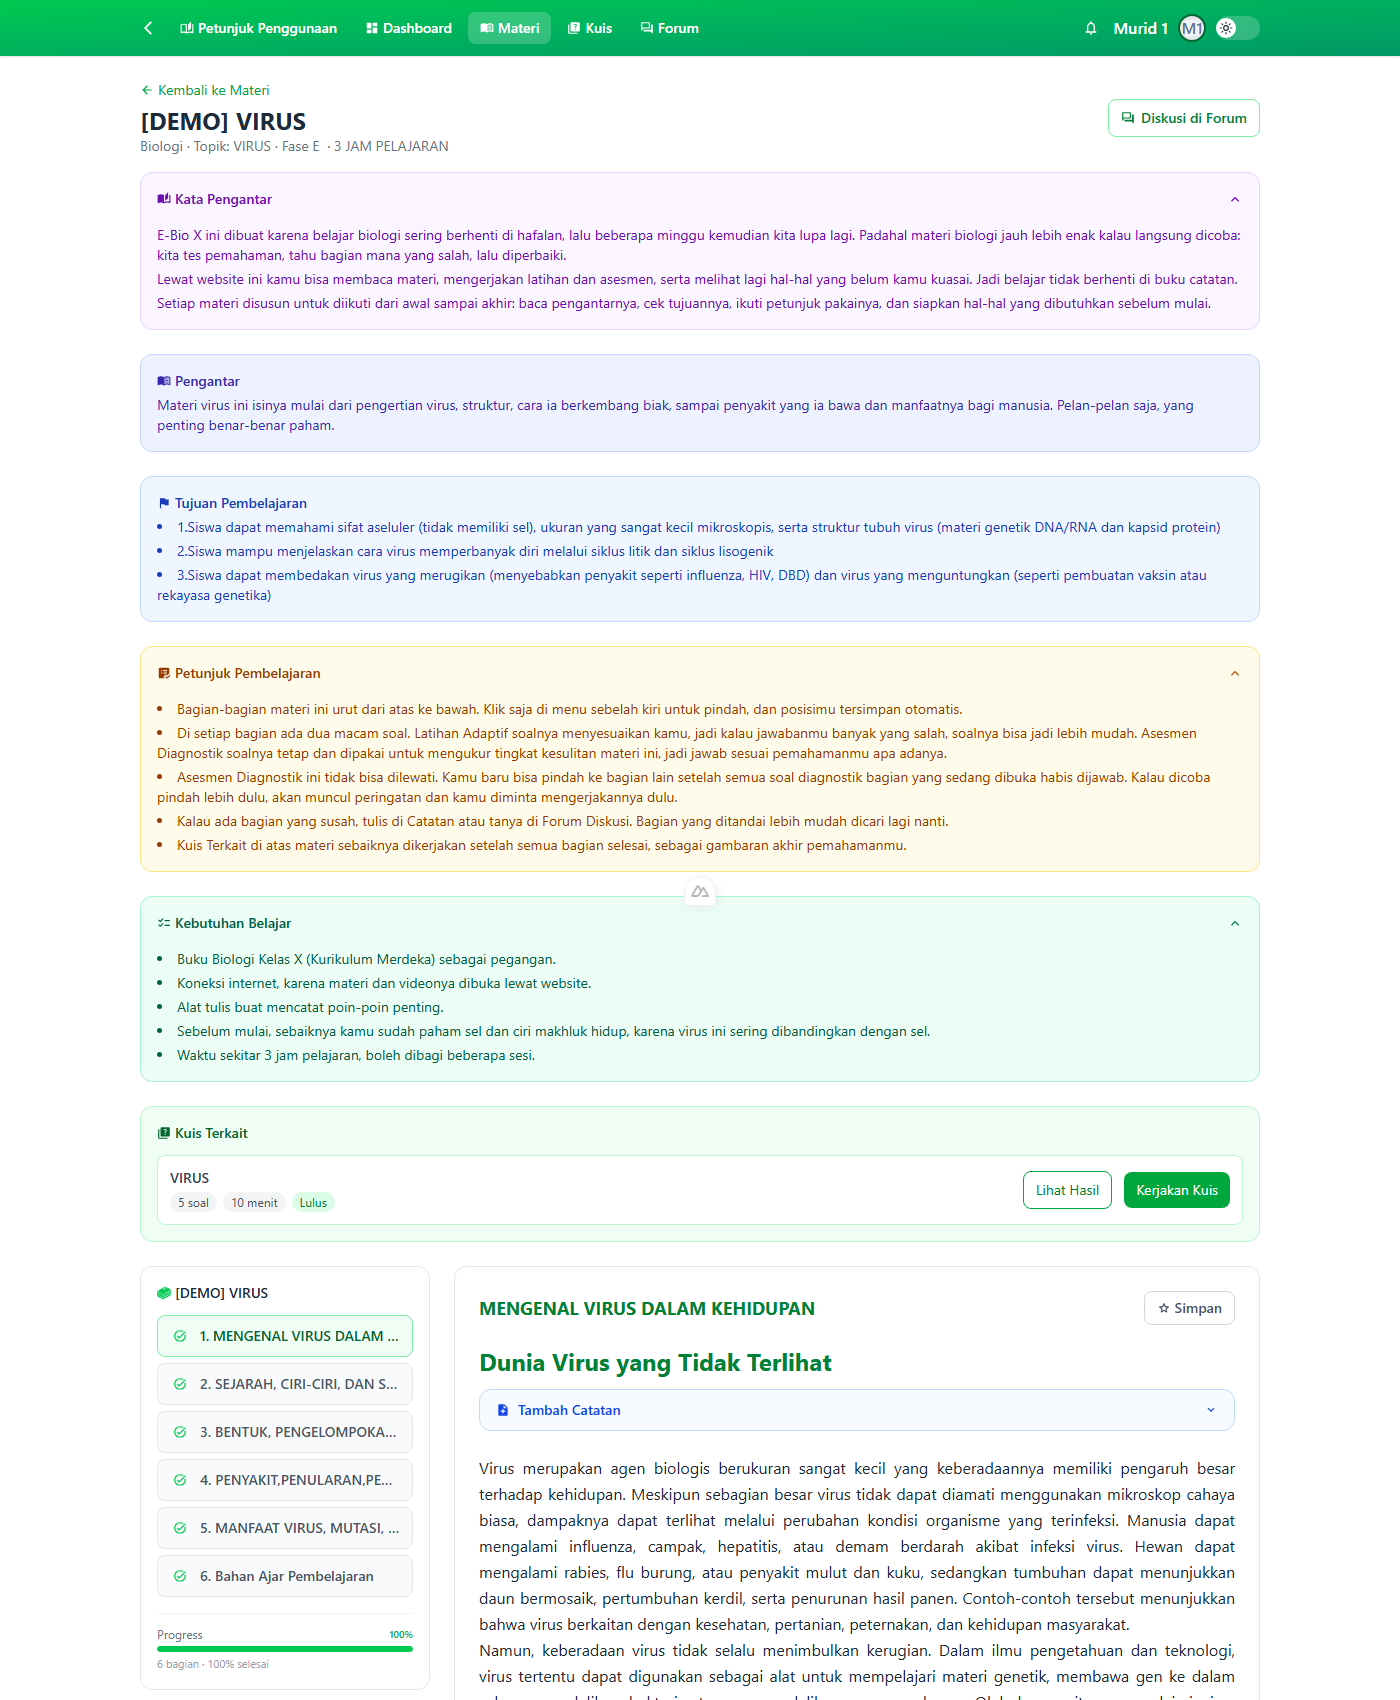
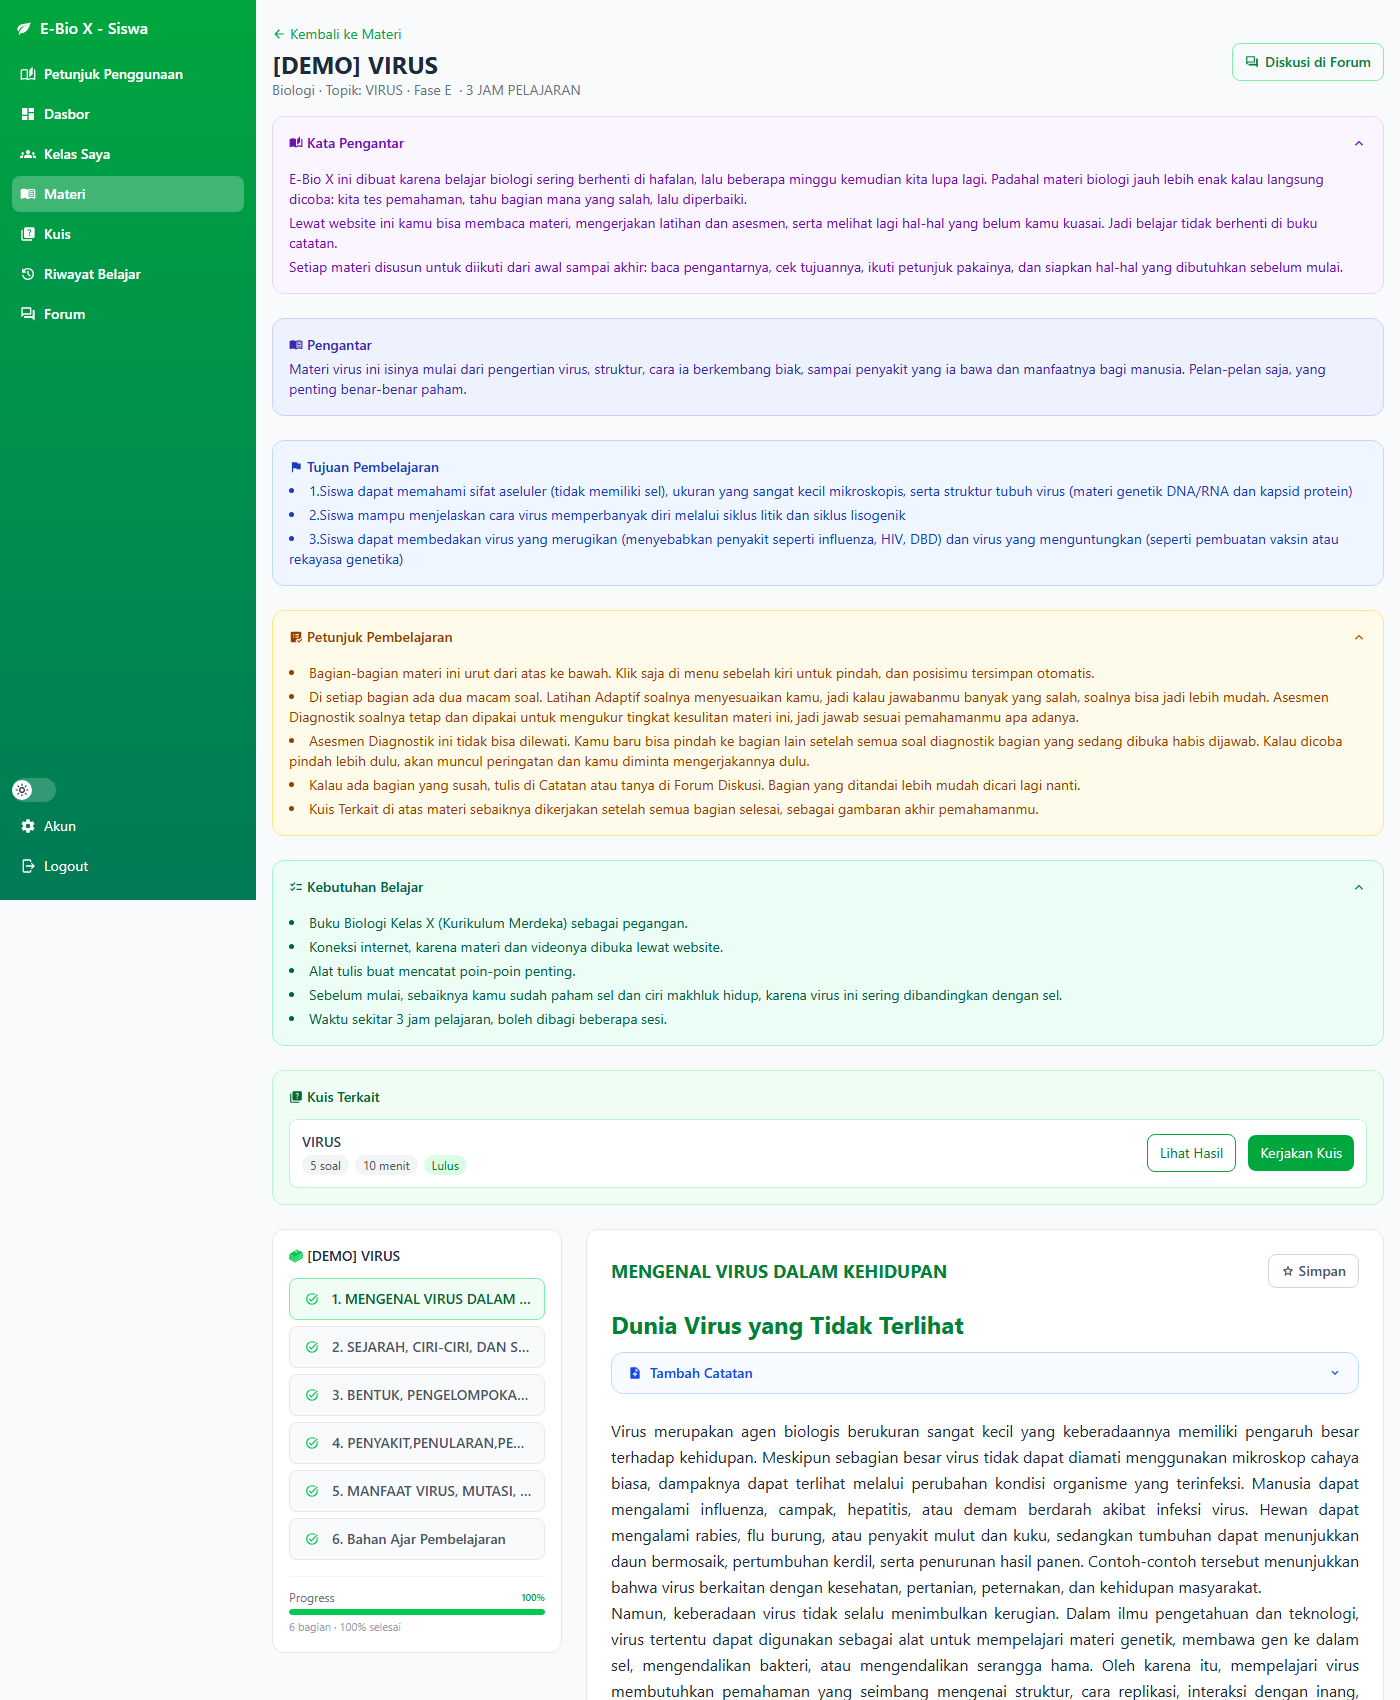
docs(panduan-siswa): tangkap ulang 12 gambar + before/after sidebar dari produksi Vercel

diff --git a/docs/PANDUAN_SISWA_NAV_BEFORE_AFTER.md b/docs/PANDUAN_SISWA_NAV_BEFORE_AFTER.md
@@ -1,63 +1,109 @@
 # Panduan Penggunaan Siswa — Dokumentasi Perubahan Navigasi (Before / After)
 
-Dokumen ini mencatat penambahan menu **Petunjuk Penggunaan** pada navigasi siswa
-beserta bukti tampilan **sebelum (before)** dan **sesudah (after)**.
+Dokumen ini mencatat dua perubahan pada navigasi siswa, beserta bukti tampilan
+**sebelum (before)** dan **sesudah (after)**:
 
-> Catatan: siswa **tidak** memakai sidebar kiri seperti guru. Navigasi siswa berupa
-> **bar atas** (desktop) dan **drawer ☰** (layar sempit/mobile). Karena itu dokumentasi
-> before/after dibuat untuk kedua bentuk tersebut.
+1. Penambahan menu **Petunjuk Penggunaan** (sebelumnya).
+2. Perubahan navigasi dari **bar atas** menjadi **sidebar kiri vertikal** seperti milik guru (terbaru).
 
-## Ringkasan perubahan
+> **Status terkini:** siswa sekarang memakai **sidebar kiri** (`StudentSidebar.vue`),
+> sama seperti sidebar guru — brand, menu vertikal, ToggleDark, Akun, dan Logout.
+> Bar atas (NavBar) tidak lagi ditampilkan pada halaman-halaman siswa.
+
+## Ringkasan perubahan terakhir (bar atas → sidebar kiri)
 
 | Item | Sebelum | Sesudah |
 | --- | --- | --- |
-| Menu navigasi siswa (desktop) | Dashboard · Materi · Kuis · Forum | **Petunjuk Penggunaan** · Dashboard · Materi · Kuis · Forum |
-| Menu drawer (mobile) | E-Bio X · Dashboard · Materi · Kuis · Forum · Akun · Logout | E-Bio X · **Petunjuk Penggunaan** · Dashboard · Materi · Kuis · Forum · Akun · Logout |
-| Halaman baru | — | `/student/panduan` (Panduan Penggunaan Siswa) |
+| Bentuk navigasi siswa | Bar atas (horizontal) + drawer ☰ | **Sidebar kiri vertikal** (256px) |
+| Posisi menu di layar lebar | Di bar hijau atas | Di panel hijau kiri sepanjang layar |
+| Konten halaman | selebar layar (mulai x=0) | digeser ke kanan **256px** (`sm:ml-64`) |
+| Menu pertama | Petunjuk Penggunaan | **Petunjuk Penggunaan** (tetap paling atas) |
+| Bar atas | tampil | **dihilangkan** pada halaman siswa |
+| Layar sempit (< 640px) | tombol ☰ pembuka drawer | tombol ☰ pembuka **sidebar overlay** + tombol tutup ✕ |
 
-Menu **Petunjuk Penggunaan** diletakkan di **posisi pertama**, sebelum *Dashboard*.
+Urutan menu sidebar siswa (dari atas):
+
+`Petunjuk Penggunaan` → `Dasbor` → `Kelas Saya` → `Materi` → `Kuis` → `Riwayat Belajar` → `Forum`
+→ (footer) `ToggleDark` · `Akun` · `Logout`
 
 ## Berkas kode yang diubah
 
-- `e-bio-x-frontend/app/components/NavBar.vue` — menambahkan satu item `navLinks` untuk
-  peran `student` pada posisi pertama.
-- `e-bio-x-frontend/app/pages/student/panduan.vue` — halaman panduan siswa (12 bagian,
-  bergambar).
+**Perubahan terbaru (sidebar):**
 
-## Tampilan bar atas (desktop)
+- `e-bio-x-frontend/app/components/StudentSidebar.vue` — **baru**, sidebar siswa yang meniru
+  `TeacherSidebar.vue` (menu vertikal, tombol ☰ mobile, overlay, tombol ✕, footer akun/logout).
+- `e-bio-x-frontend/app/layouts/student.vue` — **baru**, layout yang me-mount `<StudentSidebar />`
+  dan menggeser konten dengan `sm:ml-64`.
+- 14 halaman `e-bio-x-frontend/app/pages/student/**` — ditambahkan `layout: "student"` di
+  `definePageMeta` agar memakai layout sidebar tersebut.
 
-**Before** — belum ada menu "Petunjuk Penggunaan":
+**Perubahan sebelumnya (menu panduan):**
 
-![Navigasi siswa sebelum](assets/panduan-siswa/before-nav-siswa-crop.png)
+- `e-bio-x-frontend/app/components/NavBar.vue` — item `navLinks` peran `student` posisi pertama
+  (kini hanya relevan untuk halaman ber-layout default, mis. `/account`).
+- `e-bio-x-frontend/app/pages/student/panduan.vue` — halaman panduan siswa (12 bagian, bergambar).
 
-**After** — menu "Petunjuk Penggunaan" muncul paling depan:
+## Perubahan terbaru: bar atas → sidebar kiri
 
-![Navigasi siswa sesudah](assets/panduan-siswa/after-nav-siswa-crop.png)
+**Before** — navigasi berupa bar atas dengan menu *Petunjuk Penggunaan* pertama:
 
-Tampilan bar atas beserta awal halaman (top):
+![Navigasi siswa sebelum (bar atas)](assets/panduan-siswa/after-nav-siswa-crop.png)
+
+**After** — sidebar kiri vertikal, menu *Petunjuk Penggunaan* tetap di posisi pertama:
+
+![Sidebar siswa sesudah (kiri)](assets/panduan-siswa/after-sidebar-crop.png)
+
+Tampilan halaman penuh (sidebar + konten tergeser 256px):
+
+![Halaman siswa dengan sidebar](assets/panduan-siswa/after-sidebar-top.png)
+
+## Layar sempit (mobile)
+
+**Before** — drawer ☰ dari bar atas:
+
+![Drawer siswa sebelum](assets/panduan-siswa/before-drawer-siswa.png)
+
+**After** — sidebar overlay terbuka lewat tombol ☰ (dengan tombol tutup ✕):
+
+![Sidebar siswa mobile terbuka](assets/panduan-siswa/after-drawer-siswa.png)
+
+Keadaan tertutup (hanya tombol ☰ di kiri atas):
+
+![Sidebar siswa mobile tertutup](assets/panduan-siswa/after-hamburger-siswa.png)
+
+## Perubahan sebelumnya: menu panduan di bar atas
+
+Tahap awal (sebelum sidebar), menu **Petunjuk Penggunaan** ditambahkan ke bar atas:
 
 | Before | After |
 | --- | --- |
 | ![Before top](assets/panduan-siswa/before-nav-siswa-top.png) | ![After top](assets/panduan-siswa/after-nav-siswa-top.png) |
 
-## Tampilan drawer (mobile)
-
-**Before** — teks menu: `E-Bio X · Dashboard · Materi · Kuis · Forum · Akun · Logout`
-
-![Drawer siswa sebelum](assets/panduan-siswa/before-drawer-siswa.png)
-
-**After** — teks menu: `E-Bio X · Petunjuk Penggunaan · Dashboard · Materi · Kuis · Forum · Akun · Logout`
-
-![Drawer siswa sesudah](assets/panduan-siswa/after-drawer-siswa.png)
+| Before (crop) | After (crop) |
+| --- | --- |
+| ![Before crop](assets/panduan-siswa/before-nav-siswa-crop.png) | ![After crop](assets/panduan-siswa/after-nav-siswa-crop.png) |
 
 ## Cara memverifikasi
 
 1. Masuk sebagai siswa (contoh: `murid1@ebiox.com`).
-2. Pada layar lebar: bar atas menampilkan **Petunjuk Penggunaan** sebagai menu pertama.
-3. Pada layar sempit: buka menu **☰**, item **Petunjuk Penggunaan** muncul paling atas.
-4. Klik menu tersebut → terbuka halaman `/student/panduan`.
+2. Layar lebar: **sidebar kiri 256px** tampil dengan brand *E-Bio X - Siswa*, menu pertama
+   **Petunjuk Penggunaan**, dan **tidak ada bar atas**.
+3. Klik **Petunjuk Penggunaan** → terbuka `/student/panduan`.
+4. Layar sempit: tombol ☰ di kiri atas membuka sidebar overlay; ✕ menutupnya.
+5. Semua 14 halaman `/student/**` memakai sidebar yang sama (dicek otomatis pada 4 halaman
+   representatif: dashboard, materials, panduan, quizzes — semua `sidebarExists: true`,
+   `topNavGone: true`, `contentMarginLeft: 256px`).
 
 ## Tangkapan layar panduan fitur
 
 Gambar panduan di aplikasi tersimpan di `e-bio-x-frontend/public/panduan-siswa/`
-(12 berkas, `01-login.png` … `12-akun.png`).
+(12 berkas, `01-login.png` … `12-akun.png`) — **diambil dari situs produksi**
+(`https://e-bio-x-nine.vercel.app`) setelah sidebar baru ter-deploy.
+
+Salinan berkas tersebut juga tersedia di `docs/screenshots/` dengan prefiks
+`panduan-siswa-01-login.png` … `panduan-siswa-12-akun.png`.
+
+Bukti navigasi (before/after) tersimpan di:
+
+- `docs/assets/panduan-siswa/` — dipakai oleh dokumen ini.
+- `docs/screenshots/navigasi-siswa-*.png` — salinan untuk lampiran.
